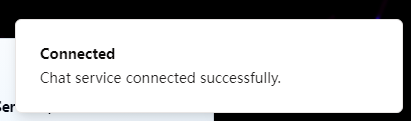
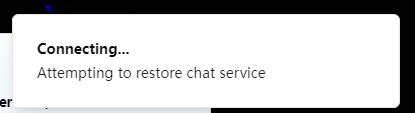
Agent query: Is the chat widget now connecting silently without showing any toast notifications on normal page refreshes?
Improve chat reconnect handling and toast messages.

Screenshot: https://storage.googleapis.com/screenshot-production-us-central1/cad623b8-61fe-484e-b3c7-be4cac67c3b3/fd811ba5-d851-4fa7-8465-8b45647d47e0.jpg

diff --git a/client/src/components/ChatWidget.tsx b/client/src/components/ChatWidget.tsx
@@ -44,12 +44,13 @@ export function ChatWidget() {
 
         socket.onopen = () => {
           console.log('WebSocket connected');
+          const wasDisconnected = reconnectAttempts > 2;
           reconnectAttempts = 0; // Reset attempts on successful connection
-          // Only show toast if we were previously disconnected
-          if (reconnectAttempts > 0) {
+          // Only show toast if we were previously disconnected for a while
+          if (wasDisconnected) {
             toast({
-              title: "Reconnected",
-              description: "Chat service restored.",
+              title: "Connected",
+              description: "Chat service restored",
               duration: 1500,
             });
           }
@@ -79,16 +80,19 @@ export function ChatWidget() {
           
           // Only attempt to reconnect if we haven't reached max attempts
           if (reconnectAttempts < MAX_RECONNECT_ATTEMPTS) {
-            // Only show disconnection toast after a short delay
-            setTimeout(() => {
-              if (socket?.readyState !== 1) { // Only show if still not connected
-                toast({
-                  title: "Connecting...",
-                  description: "Attempting to restore chat service",
-                  duration: 2000,
-                });
-              }
-            }, 2000);
+            // Only show disconnection toast after a longer delay
+            // and only if we've already tried reconnecting multiple times
+            if (reconnectAttempts > 2) {
+              setTimeout(() => {
+                if (socket?.readyState !== WebSocket.OPEN) {
+                  toast({
+                    title: "Connection Issue",
+                    description: "Chat service is experiencing difficulties",
+                    duration: 2000,
+                  });
+                }
+              }, 5000); // Increased delay to 5 seconds
+            }
             
             reconnectTimeout = setTimeout(() => {
               reconnectAttempts++;
